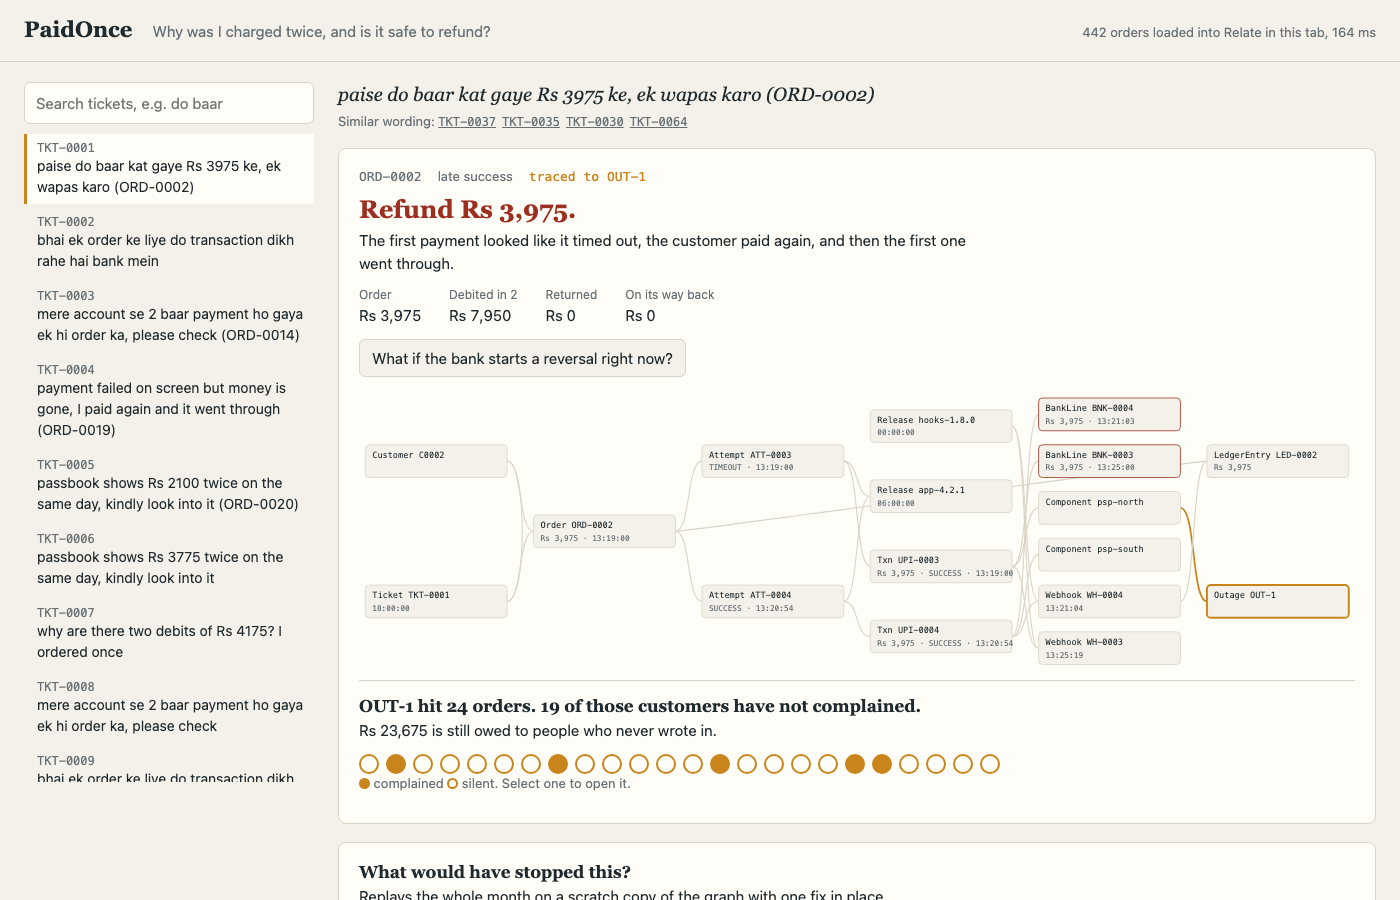
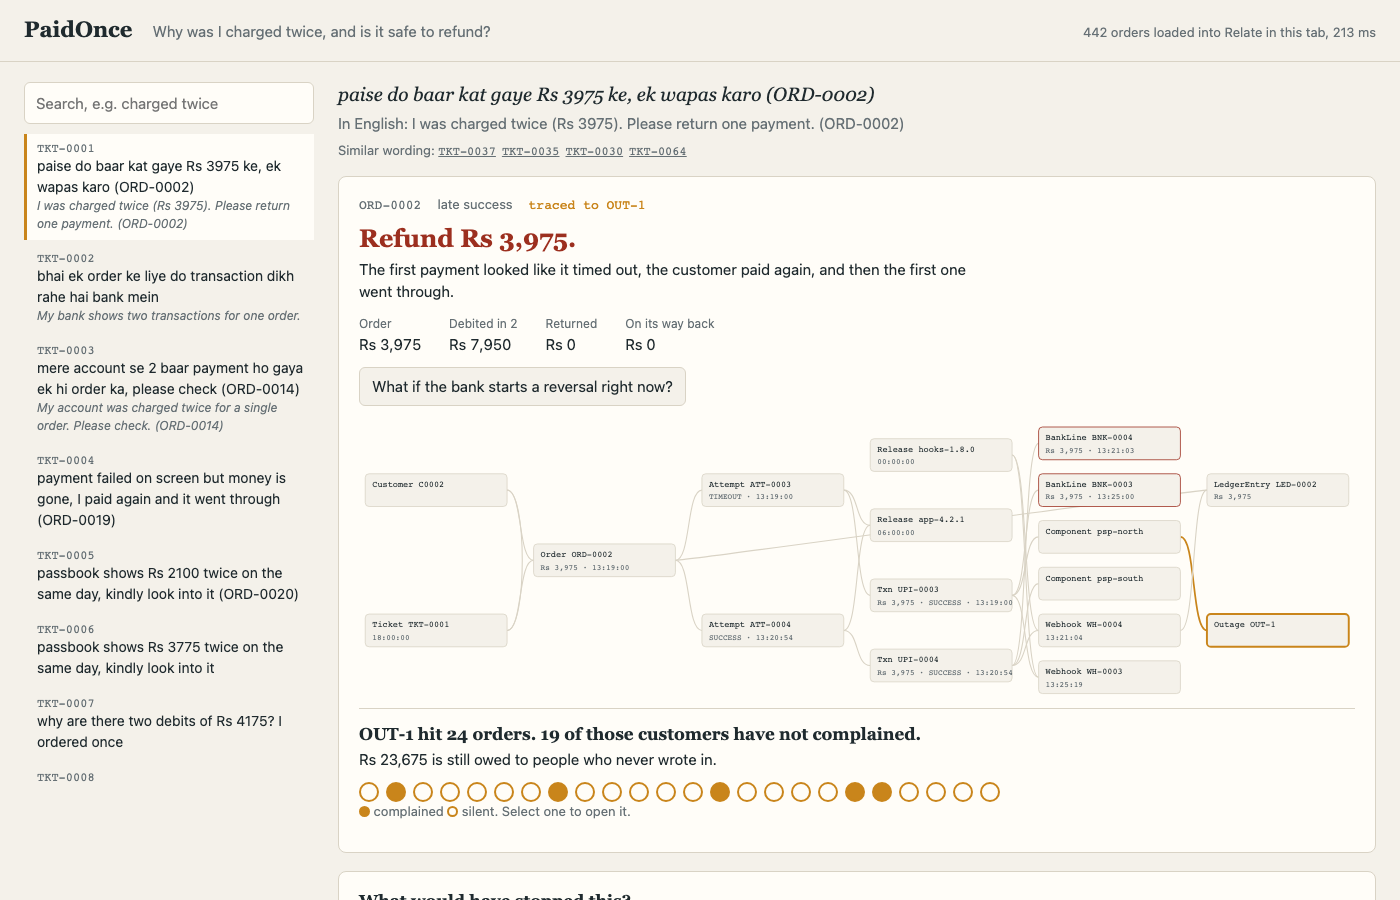
Show English beside Hinglish tickets

diff --git a/web/index.html b/web/index.html
@@ -17,9 +17,9 @@ input{width:100%;padding:9px 11px;border:1px solid var(--line);border-radius:6px
 #inbox{margin-top:10px;max-height:72vh;overflow:auto;display:grid;gap:4px;align-content:start}
 button{font:inherit;color:inherit;cursor:pointer}
 .ticket{display:grid;text-align:left;border:0;border-left:3px solid transparent;background:none;padding:7px 10px}
-.ticket b{font:12px ui-monospace,monospace;color:var(--mute)} .ticket span{font-size:14px}
+.ticket b{font:12px ui-monospace,monospace;color:var(--mute)} .ticket span{font-size:14px} .ticket small{font-size:12px;color:var(--mute);font-style:italic}
 .ticket:hover,.ticket.on{background:var(--panel);border-left-color:var(--root)}
-.quote{font:italic 19px/1.4 Georgia,serif;margin:0 0 4px;max-width:60ch} .near{margin:0 0 16px;color:var(--mute);font-size:13px}
+.quote{font:italic 19px/1.4 Georgia,serif;margin:0 0 4px;max-width:60ch} .gloss{margin:0 0 6px;color:var(--mute);max-width:66ch} .near{margin:0 0 16px;color:var(--mute);font-size:13px}
 .link{border:0;background:none;padding:0 6px 0 0;text-decoration:underline;font:12px ui-monospace,monospace;color:var(--mute)}
 .card{background:var(--panel);border:1px solid var(--line);border-radius:8px;padding:18px 20px;margin-bottom:18px}
 .card header{display:flex;flex-wrap:wrap;gap:6px 16px;color:var(--mute);font-size:13px} .mono{font-family:ui-monospace,monospace} .root{color:var(--root)}
@@ -41,7 +41,7 @@ table{border-collapse:collapse;margin-top:8px} th,td{text-align:left;padding:4px
 <body>
 <div class="top"><h1>PaidOnce</h1><p>Why was I charged twice, and is it safe to refund?</p><p id="status">Loading Relate…</p></div>
 <main>
-<aside><input id="q" placeholder="Search tickets, e.g. do baar" aria-label="Search tickets"><div id="inbox"></div></aside>
+<aside><input id="q" placeholder="Search, e.g. charged twice" aria-label="Search tickets"><div id="inbox"></div></aside>
 <section>
 <div id="ticket"></div>
 <div id="cards"></div>

diff --git a/web/app.ts b/web/app.ts
@@ -6,6 +6,7 @@ import { rupees, todo, why } from "../src/format.js";
 import type { Dataset, Graph } from "../src/types.js";
 import { wrapWasm } from "../src/wasm.js";
 import { readCypher } from "./cypher.js";
+import { english } from "../src/gloss.js";
 
 type Child = Node | string;
 const h = (tag: string, attrs: Record<string, string> = {}, ...kids: Child[]): HTMLElement => {
@@ -38,7 +39,7 @@ const disputes = data.tickets
 
 function inbox(ids: { id: string; text: string }[]): void {
   $("inbox").replaceChildren(...ids.map(({ id, text }) =>
-    on(h("button", { class: id === selected ? "ticket on" : "ticket", type: "button" }, h("b", {}, id), h("span", {}, text)), () => show(id))));
+    on(h("button", { class: id === selected ? "ticket on" : "ticket", type: "button" }, h("b", {}, id), h("span", {}, text), ...(english(text) ? [h("small", {}, english(text) ?? "")] : [])), () => show(id))));
 }
 
 const COLUMNS: Record<string, number> = {
@@ -137,7 +138,8 @@ function show(id: string): void {
   const e = explainTicket(graph, readCypher, id);
   if (!e) return;
   const near = similarTickets(graph, readCypher, id).slice(0, 4);
-  $("ticket").replaceChildren(h("p", { class: "quote" }, e.text),
+  const en = english(e.text);
+  $("ticket").replaceChildren(h("p", { class: "quote" }, e.text), ...(en ? [h("p", { class: "gloss" }, `In English: ${en}`)] : []),
     h("p", { class: "near" }, "Similar wording: ", ...near.map((n) => on(h("button", { type: "button", class: "link" }, n.ticket), () => show(n.ticket)))));
   const fs = e.findings.filter((f) => f.cause !== "SINGLE_CHARGE");
   $("cards").replaceChildren(...(fs.length ? fs : e.findings).map(card));

diff --git a/src/gloss.ts b/src/gloss.ts
@@ -1,0 +1,27 @@
+/**
+ * Fixed English translations for the Hinglish ticket templates in the sample data.
+ * The customer's own words are always kept; this only adds a line a reader can follow.
+ */
+const AMT = "(Rs [\\d,.]+)";
+const RULES: [RegExp, (m: RegExpMatchArray) => string][] = [
+  [new RegExp(`^paise do baar kat gaye ${AMT} ke, ek wapas karo`), (m) => `I was charged twice (${m[1]}). Please return one payment.`],
+  [/^mere account se 2 baar payment ho gaya ek hi order ka, please check/, () => "My account was charged twice for a single order. Please check."],
+  [new RegExp(`^UPI fail dikhaya phir bhi ${AMT} kata, dobara pay kiya\\. ab do baar kat gaya`), (m) => `UPI showed the payment as failed, but ${m[1]} was still taken. I paid again, and now I have been charged twice.`],
+  [/^bhai ek order ke liye do transaction dikh rahe hai bank mein/, () => "My bank shows two transactions for one order."],
+  [/^order abhi tak deliver nahi hua/, () => "My order has not been delivered yet."],
+  [/^app login nahi ho raha, OTP nahi aata/, () => "I can't log in to the app. The OTP never arrives."],
+  [/^coupon code apply nahi ho raha/, () => "The coupon code won't apply."],
+  [/^GST invoice chahiye pichle order ka/, () => "I need a GST invoice for my last order."],
+];
+
+/** English for a Hinglish ticket, or null when the ticket is already in English. */
+export function english(text: string): string | null {
+  for (const [re, say] of RULES) {
+    const m = text.match(re);
+    if (m) {
+      const order = /\((ORD-\d+)\)\s*$/.exec(text)?.[1];
+      return order ? `${say(m)} (${order})` : say(m);
+    }
+  }
+  return null;
+}

diff --git a/src/mcp.ts b/src/mcp.ts
@@ -5,6 +5,7 @@ import { readCypher } from "./cypher.js";
 import { blastRadius, explainTicket, findings, FIXES, searchTickets, similarTickets, trail, whatIf } from "./engine.js";
 import { todo, why } from "./format.js";
 import { openScratch, openStore } from "./open.js";
+import { english } from "./gloss.js";
 
 const server = new McpServer({ name: "paidonce", version: "0.1.0" });
 const MAX_ROWS = 100;
@@ -15,7 +16,7 @@ const explain = (f: ReturnType<typeof findings>[number]) => ({ ...f, why: why(f)
 server.registerTool("find_tickets", {
   description: "Find support tickets by words. Use this first when you only have a complaint.",
   inputSchema: { words: z.string() },
-}, ({ words }) => reply(searchTickets(g(), readCypher, words)));
+}, ({ words }) => reply(searchTickets(g(), readCypher, words).map((h) => ({ ...h, english: english(h.text) }))));
 
 server.registerTool("similar_tickets", {
   description: "Tickets close in meaning to one ticket. Candidates only: never decide a refund from similarity.",
@@ -29,7 +30,7 @@ server.registerTool("explain_dispute", {
   const graph = g();
   if (id.startsWith("ORD-")) return reply(findings(graph, readCypher, id).map(explain));
   const e = explainTicket(graph, readCypher, id);
-  return reply(e ? { ...e, findings: e.findings.map(explain) } : { error: `No ticket ${id}` });
+  return reply(e ? { ...e, english: english(e.text), findings: e.findings.map(explain) } : { error: `No ticket ${id}` });
 });
 
 server.registerTool("evidence_trail", {

diff --git a/src/cli.ts b/src/cli.ts
@@ -2,6 +2,7 @@ import { readCypher } from "./cypher.js";
 import { blastRadius, explainTicket, findings, FIXES, searchTickets, similarTickets, trail, whatIf, type Fix } from "./engine.js";
 import { rupees, summary } from "./format.js";
 import { openScratch, openStore } from "./open.js";
+import { english } from "./gloss.js";
 import { CAUSES } from "./types.js";
 
 const USAGE = `paidonce <command>
@@ -33,7 +34,8 @@ function run(cmd: string | undefined, args: string[]): string {
       if (arg.startsWith("ORD-")) return findings(g, readCypher, arg).map(summary).join("\n") || `No order ${arg}`;
       const e = explainTicket(g, readCypher, arg);
       if (!e) return `No ticket ${arg}`;
-      return [`${e.ticket} from ${e.customer}: "${e.text}"`, "", ...(e.findings.length ? e.findings.map(summary) : ["No order found for this ticket."])].join("\n");
+      const en = english(e.text);
+      return [`${e.ticket} from ${e.customer}: "${e.text}"`, ...(en ? [`  In English: ${en}`] : []), "", ...(e.findings.length ? e.findings.map(summary) : ["No order found for this ticket."])].join("\n");
     }
     case "trail":
       return trail(g, readCypher, arg).edges.map((e) => `${e.from} -[${e.type}]-> ${e.to}`).join("\n") || `No order ${arg}`;

diff --git a/test/gloss.test.ts b/test/gloss.test.ts
@@ -1,0 +1,21 @@
+import { expect, it } from "vitest";
+import { generate } from "../src/generate.js";
+import { english } from "../src/gloss.js";
+
+const HINDI = /\b(paise|kat|baar|nahi|mere|hai|chahiye|dikhaya|karo|bhai)\b/i;
+
+it("gives every Hinglish ticket an English line, and leaves English tickets alone", () => {
+  for (const seed of [7, 1, 2, 3]) {
+    for (const t of generate({ seed }).data.tickets) {
+      const en = english(t.text);
+      if (HINDI.test(t.text)) {
+        expect(en, t.text).not.toBeNull();
+        expect(HINDI.test(en ?? ""), en ?? "").toBe(false);
+      } else expect(en, t.text).toBeNull();
+    }
+  }
+});
+
+it("keeps the amount and the order the customer named", () => {
+  expect(english("paise do baar kat gaye Rs 3975 ke, ek wapas karo (ORD-0002)")).toBe("I was charged twice (Rs 3975). Please return one payment. (ORD-0002)");
+});

diff --git a/README.md b/README.md
@@ -19,6 +19,8 @@ Support teams answer "I was charged twice" by reading the ledger, the gateway, t
 
 And each ticket is usually one visible case of a bigger problem: an outage, a bad release, a reusable QR code.
 
+**Why UPI and Hinglish?** The sample data models UPI, India's real-time bank-to-bank payment system, where a payment can show as failed on screen and still go through later. Many Indian customers write to support in Hinglish (Hindi in Latin script), so some sample tickets do too. PaidOnce keeps the customer's words and shows a fixed English translation beside them. Ticket similarity uses a multilingual embedding model, but it only suggests tickets to open; it never decides a refund.
+
 The relationships that matter are the ones between systems that do not know about each other: a retry and the timeout before it, a webhook and the release that handled it, a gateway and its outage, a debit and the reversal coming back.
 
 ## How it uses Relate
